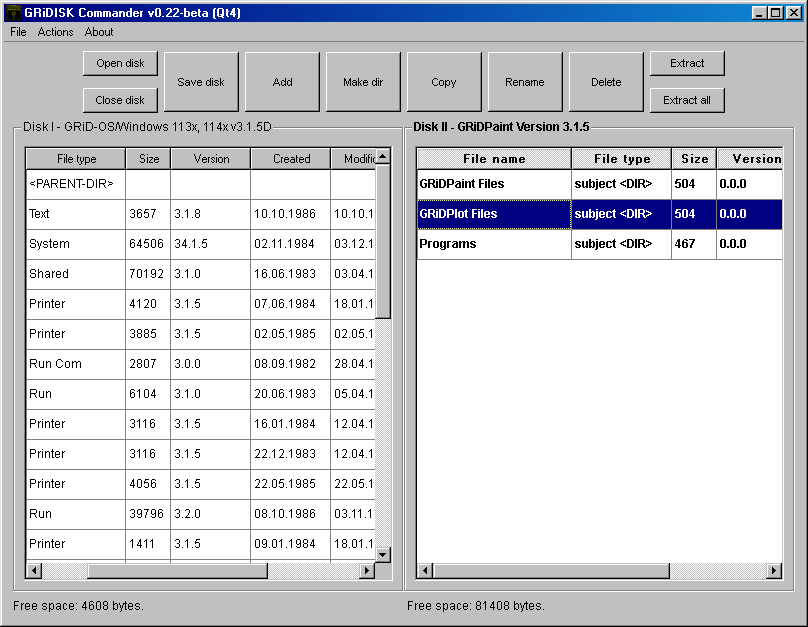
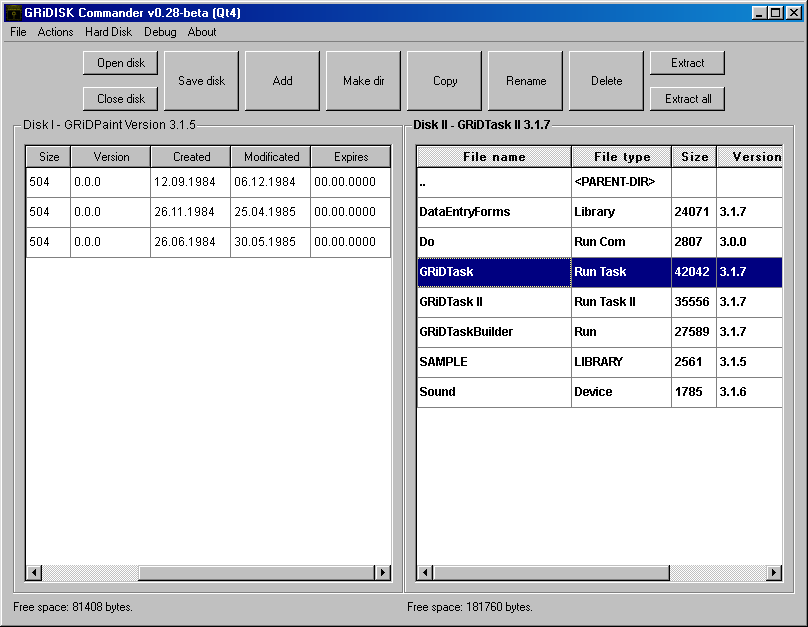
New version: 0.28-beta

diff --git a/dialogs/mainwindow.cpp b/dialogs/mainwindow.cpp
@@ -437,7 +437,8 @@ MainWindow::MainWindow(QWidget *parent): QMainWindow(parent), ui(new Ui::MainWin
                 }
             }
             else if (!isop[0] || !isop[1]){
-                if (QFileInfo(arg).exists()){
+                QFileInfo fil(arg);
+                if (fil.suffix().toLower() == "img" && fil.exists()){
                     acdisk = isop[0];
                     LoadImg(arg);
                 }

diff --git a/dialogs/abdlg.h b/dialogs/abdlg.h
@@ -5,7 +5,7 @@
 #include <QUrl>
 #include "ui_abdlg.h"
 
-#define _PVER_ "0.24-beta (Qt4)"
+#define _PVER_ "0.28-beta (Qt4)"
 
 namespace Ui {
 class AbDlg;

diff --git a/README.md b/README.md
@@ -7,12 +7,17 @@ This is a **Qt4** version for old Windows (98-Vista) versions.
 
 Commander can:
 
+* Create new (360k floppy) images.
 * Add files to image.
 * Create/add folders to image.
+* Copy files/folders inside the image.
 * Transfer files between images.
 * Dump files to computer.
 * Change name for files/folders.
 * Change image label.
+* Work with GRiD HDD (with MBR) partitions and extract them.
+
+**WARNING:** GRiDISK Commander can't work with Bubble Memory images (however support is planned).
 
 ## Building requirements
 * Needs MinGW x32 or x64 with Qt4 to compile in Windows.
